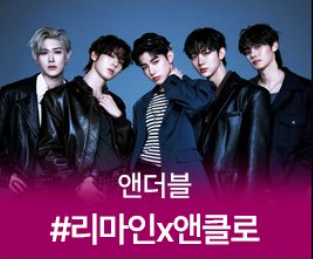
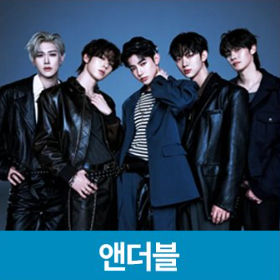
feat: 2026 MAMA 2차 연합(앤더블) 공식 포스터 이미지 반영, 사진 규격 확대 및 모바일 줄바꿈 개선

diff --git a/index.html b/index.html
@@ -495,15 +495,14 @@
     }
 
     .team-poster-thumb {
-      width: 48px;
-      height: 48px;
-      border-radius: 8px;
+      width: 64px;
+      height: 64px;
+      border-radius: 10px;
       object-fit: cover;
       flex-shrink: 0;
       border: none;
-      box-shadow: none;
+      box-shadow: 0 2px 6px rgba(0, 0, 0, 0.08);
       background: #121316;
-
     }
 
     .team-meta {
@@ -2867,6 +2866,14 @@
     }
 
     @media (max-width: 360px) {
+      .team-poster-thumb {
+        width: 58px;
+        height: 58px;
+        border-radius: 8px;
+      }
+      .team-name {
+        font-size: 15px;
+      }
       .btn-special-main {
         font-size: 12px;
         padding: 13px 6px;
@@ -3023,10 +3030,7 @@
         <img src="images/andouble.png" class="team-poster-thumb" alt="앤더블 포스터">
         <div class="team-meta">
           <div class="team-name-row">
-            <div class="team-name">
-              앤더블 (AND2BLE)
-              <span class="team-category-pill">남자 부문</span>
-            </div>
+            <div class="team-name">앤더블 (AND2BLE)</div>
             <span class="status-check-badge" onclick="toggleStatus('card-1')">⚪ 인증 전</span>
           </div>
           <div class="tag-row">
